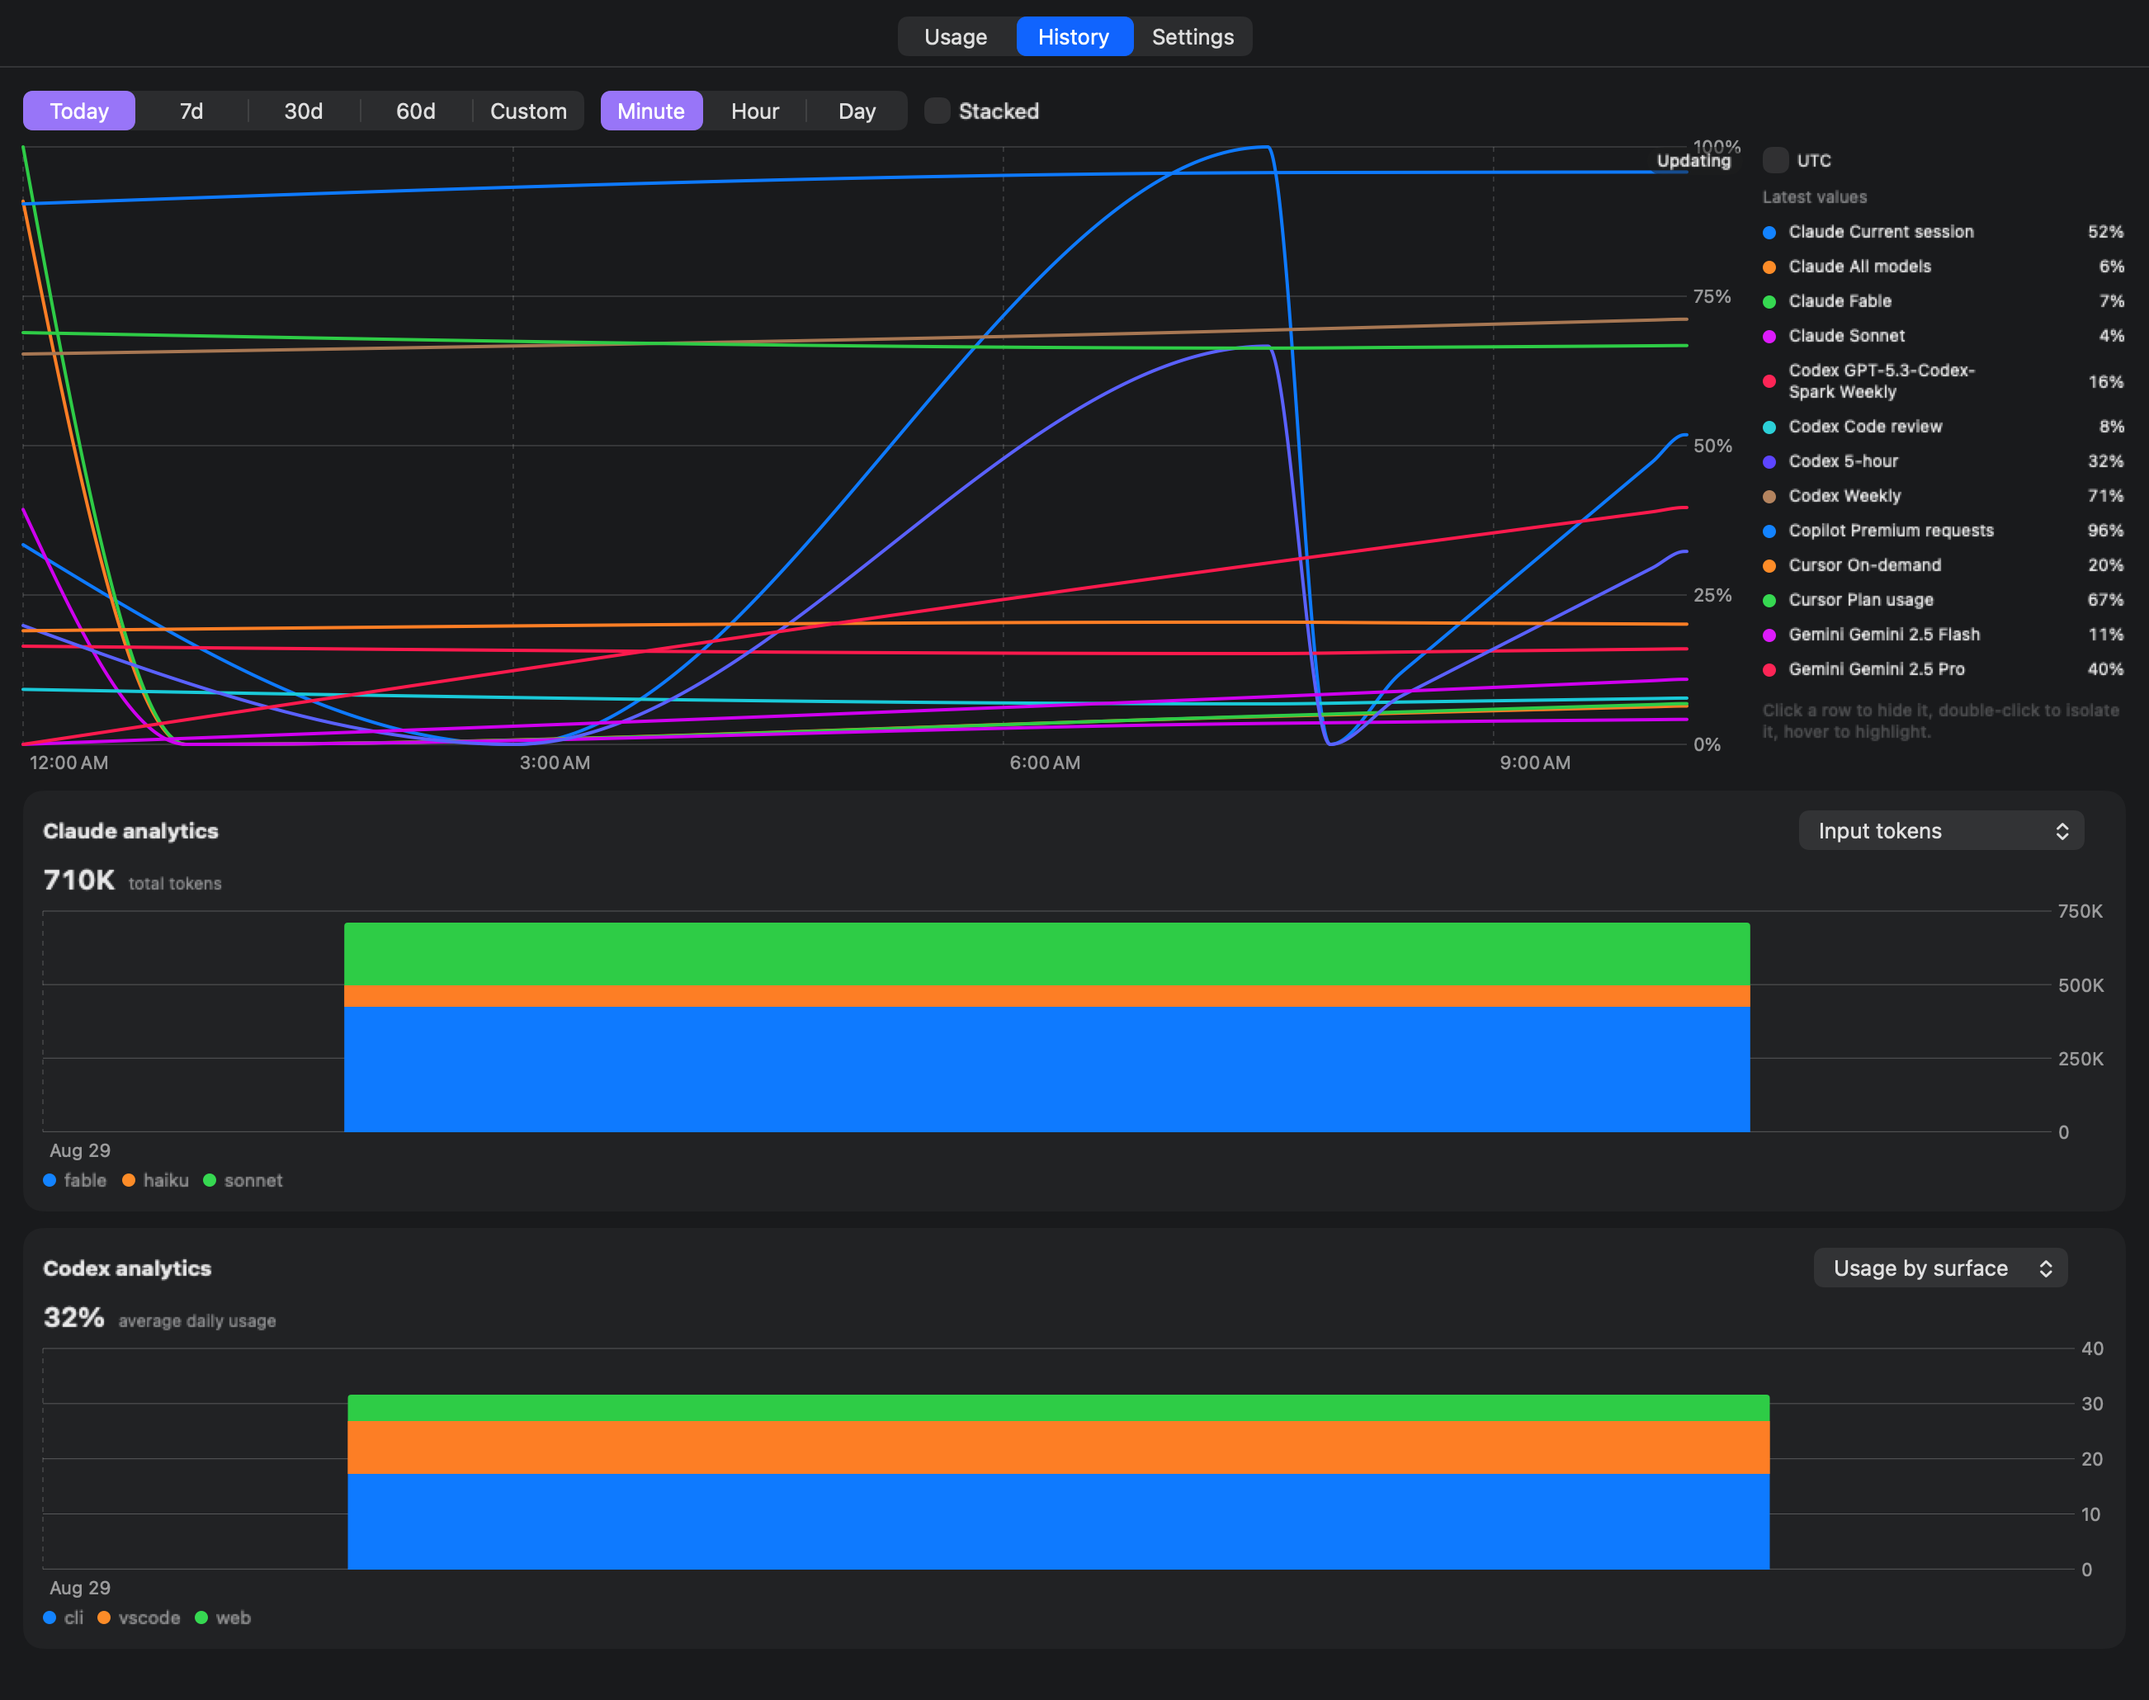
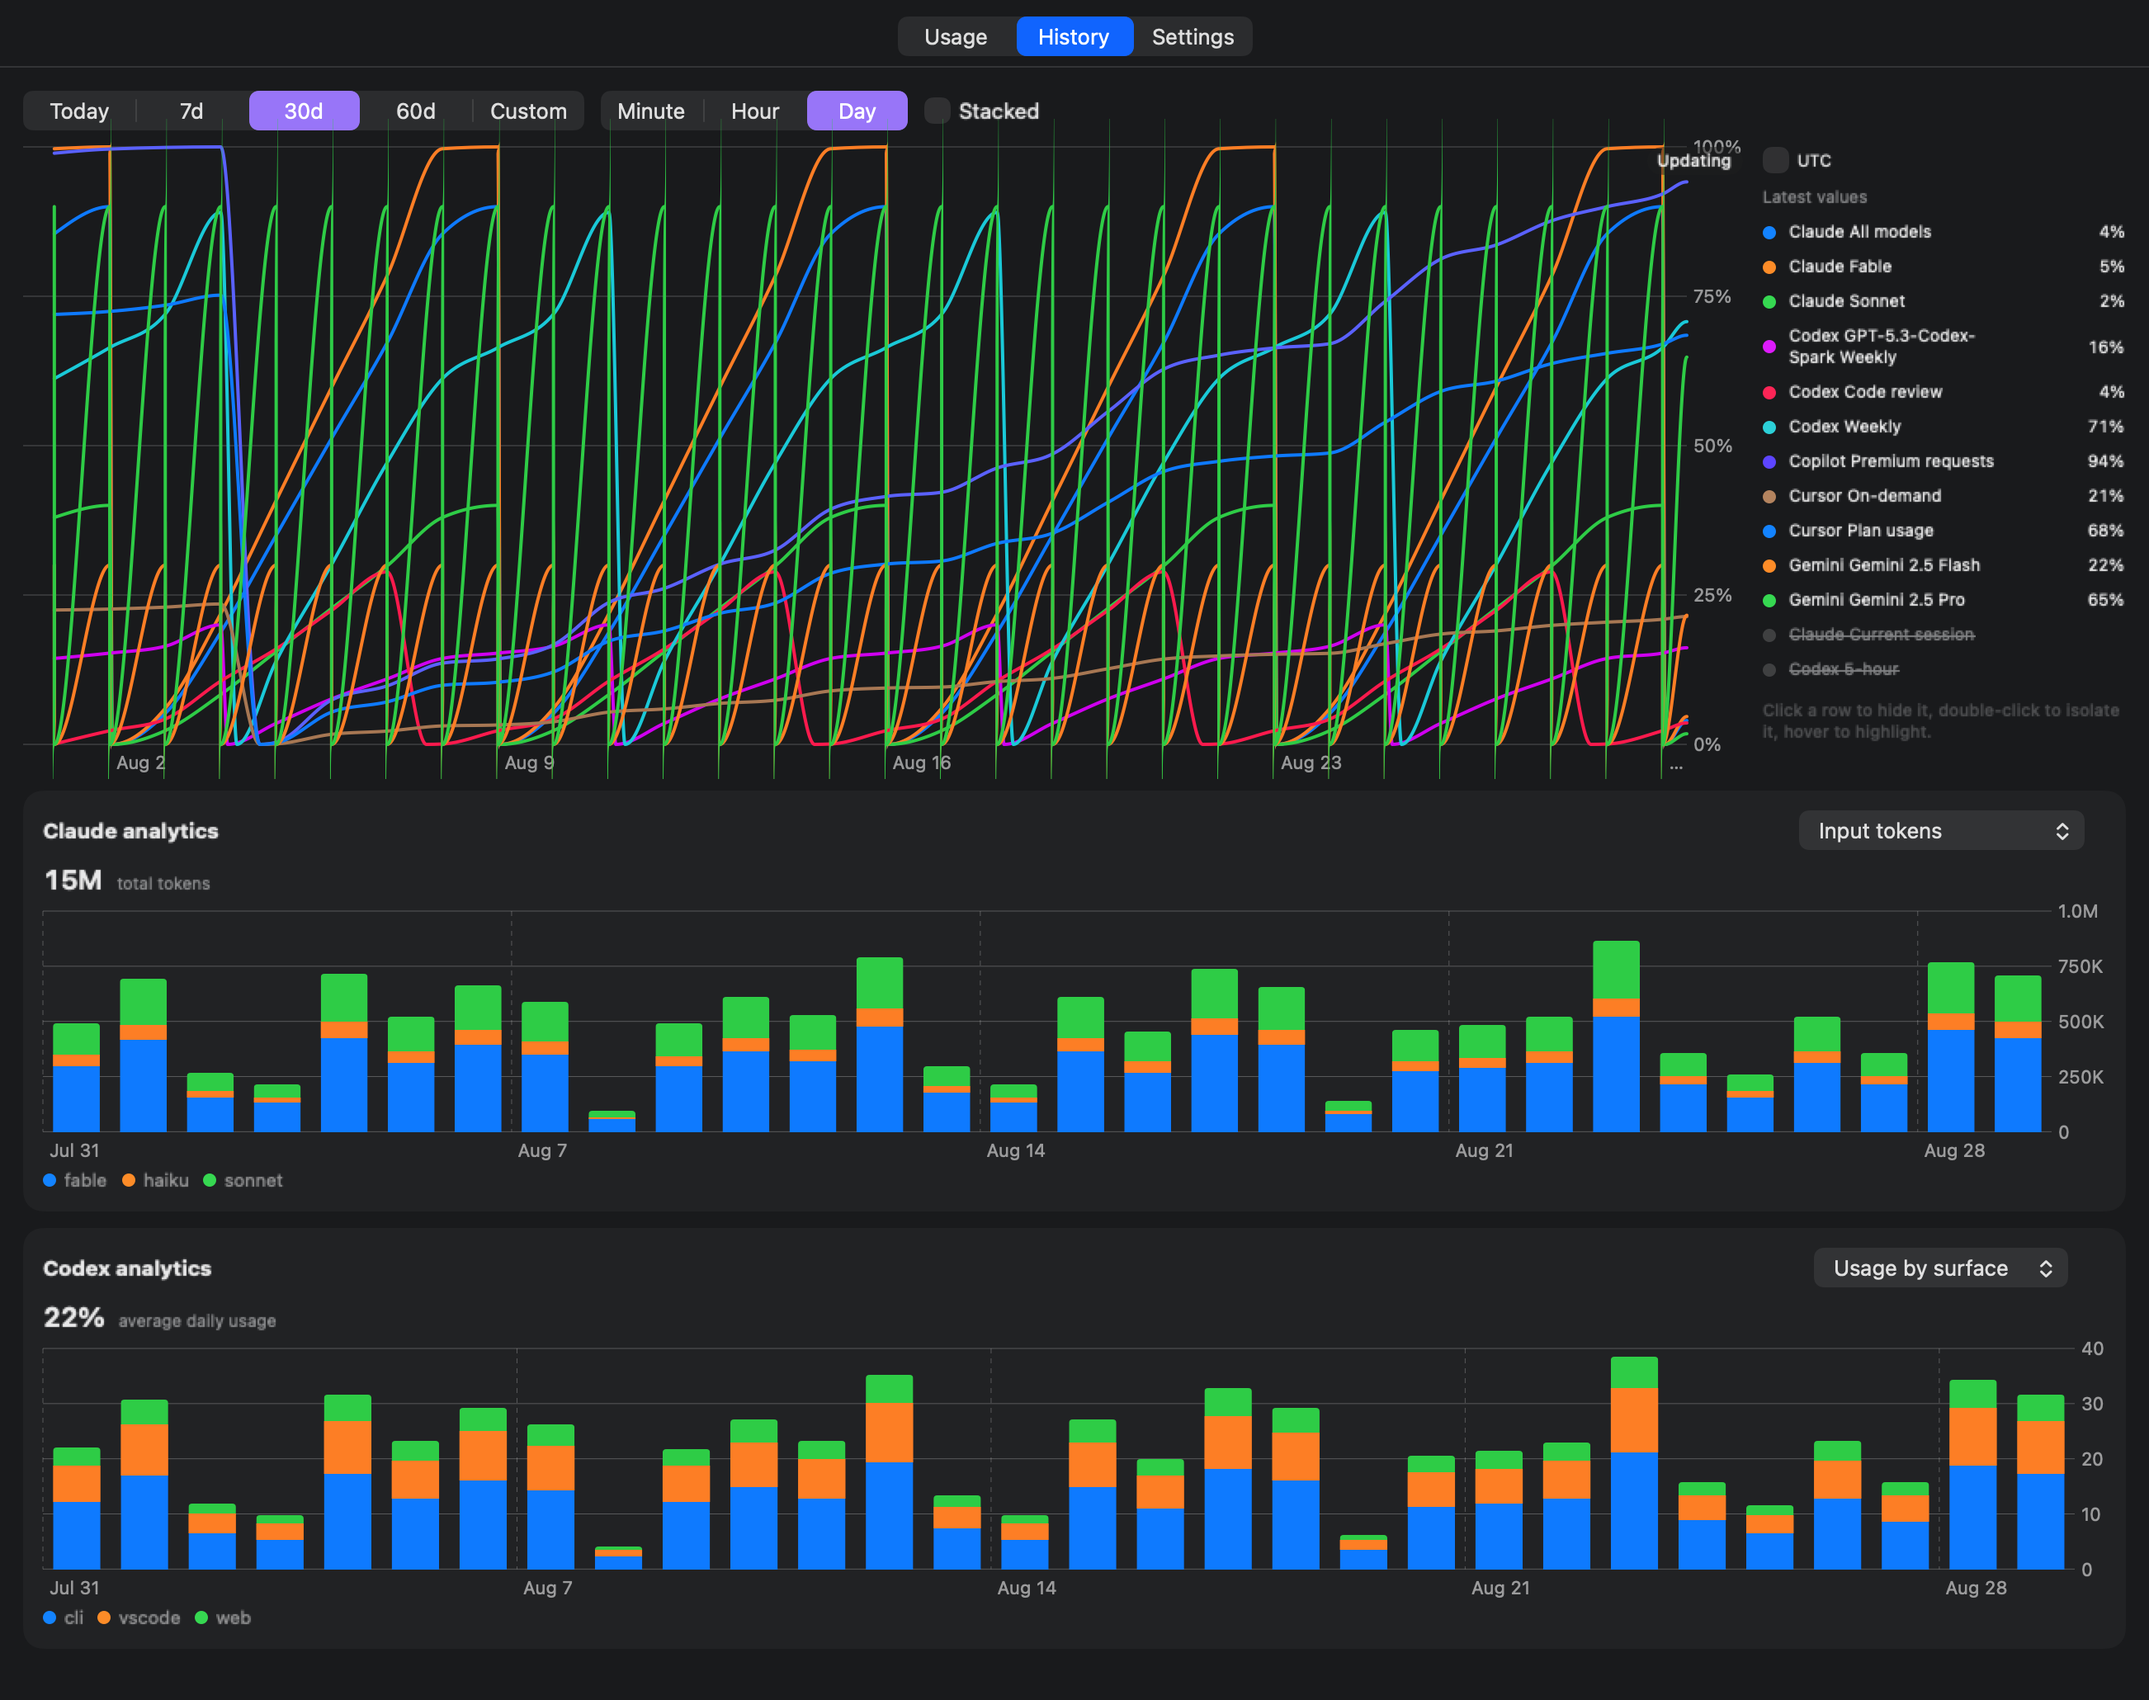
✨ feat(demo): give the demo history a working rhythm
The demo drew each window as a straight ramp, so every chart on the website
was a set of parallel diagonals with a sawtooth at each reset. Usage now
accumulates against an office-hours curve that flattens overnight and at
weekends, and the seeded history covers 30 days rather than 7.

The screenshot export waits for that seed, clears the support directory
first so a shot cannot come from an earlier run, hides the five-hour
windows that reset thirty times across the range, and opens the history on
30 days of daily buckets.

Claude-Session: https://claude.ai/code/session_01CGckDFXvufWVmRH4uyE4z8

diff --git a/Sources/TokenMenuBarCore/Demo/DemoData.swift b/Sources/TokenMenuBarCore/Demo/DemoData.swift
@@ -2,7 +2,8 @@ import Foundation
 
 public enum DemoData {
   public static let email = "you@example.com"
-  public static let historyDays = 7
+  public static let historyDays = 30
+  static let seedInterval: TimeInterval = 1800
 
   public static func snapshot(_ provider: ProviderID, now: Date) -> ProviderSnapshot {
     switch provider {
@@ -160,11 +161,46 @@ public enum DemoData {
     now: Date, scope: String? = nil
   ) -> QuotaWindow {
     let resetsAt = boundary(now: now, duration: duration, offset: offset)
-    let elapsed = 1 - resetsAt.timeIntervalSince(now) / duration
-    let wobble = 0.02 * sin(now.timeIntervalSince1970 / 36000 + Double(id.count))
+    let start = resetsAt.addingTimeInterval(-duration)
     return QuotaWindow(
-      id: id, label: label, group: group, usedPercent: min(100, max(0, (elapsed * pace + wobble) * 100)),
-      resetsAt: resetsAt, duration: duration, scope: scope)
+      id: id, label: label, group: group,
+      usedPercent: min(100, max(0, burned(from: start, to: now, of: duration) * pace * 100)), resetsAt: resetsAt,
+      duration: duration, scope: scope)
+  }
+
+  /// Quota burns while someone works, so the demo curve climbs through office hours and flattens overnight and at
+  /// weekends. A flat ramp reads as synthetic the moment it lands on a chart. Sampling a fixed number of steps keeps
+  /// this cheap enough to run for every point the seeded history holds.
+  static func burned(from start: Date, to now: Date, of duration: TimeInterval) -> Double {
+    let step = max(duration / 48, 900)
+    var spent = 0.0
+    var total = 0.0
+    for offset in stride(from: 0.0, to: duration, by: step) {
+      let moment = start.addingTimeInterval(offset)
+      let weight = intensity(at: moment)
+      total += weight
+      if moment <= now { spent += weight }
+    }
+    return total > 0 ? spent / total : 0
+  }
+
+  /// Hour and weekday from the epoch rather than Calendar: the seed asks for this hundreds of thousands of times.
+  static func intensity(at date: Date) -> Double {
+    let seconds = date.timeIntervalSince1970
+    let day = (seconds / 86400).rounded(.down)
+    let hour = (seconds - day * 86400) / 3600
+    let workday =
+      switch hour {
+      case 9..<12, 14..<18: 1.0
+      case 12..<14: 0.55
+      case 18..<22: 0.35
+      case 8..<9: 0.5
+      default: 0.05
+      }
+    // 1 January 1970 was a Thursday, so index 0 lands on Sunday
+    let weekday = Int(day.truncatingRemainder(dividingBy: 7) + 4).quotientAndRemainder(dividingBy: 7).remainder
+    let weekend = weekday == 0 || weekday == 6
+    return workday * (weekend ? 0.3 : 1)
   }
 
   static func boundary(now: Date, duration: TimeInterval, offset: TimeInterval) -> Date {
@@ -176,10 +212,10 @@ public enum DemoData {
     let start = now.addingTimeInterval(-Double(historyDays) * 86400)
     var snapshots: [(ProviderSnapshot, Date)] = []
     for provider in providers {
-      for stamp in stride(from: start, to: now, by: UsageHistoryStore.sampleInterval) {
+      for stamp in stride(from: start, to: now, by: seedInterval) {
         snapshots.append((snapshot(provider, now: stamp), stamp))
       }
-      if let analytics = analytics(provider, now: now, days: 30) { try await history.record(analytics) }
+      if let analytics = analytics(provider, now: now, days: historyDays) { try await history.record(analytics) }
     }
     try await history.seed(snapshots)
   }

diff --git a/Sources/TokenMenuBarUI/ExportRunner.swift b/Sources/TokenMenuBarUI/ExportRunner.swift
@@ -44,14 +44,27 @@ public enum ExportRunner {
     let suite = "dev.tox.token-menu-bar.export"
     let defaults = UserDefaults(suiteName: suite)!
     defaults.removePersistentDomain(forName: suite)
+    // A leftover history file would freeze the shots at whatever the demo generated on an earlier run
+    let support = FileManager.default.temporaryDirectory.appendingPathComponent("tmb-export")
+    try? FileManager.default.removeItem(at: support)
     let delegate = try AppRunner.bootstrap(
       isAppStore: false, notificationCenter: nil, updater: nil, isSandboxed: false,
-      paths: LiveDependencies.Paths(
-        supportDirectory: FileManager.default.temporaryDirectory.appendingPathComponent("tmb-export"),
-        environment: ["TOKEN_MENU_BAR_DEMO": "1"]),
+      paths: LiveDependencies.Paths(supportDirectory: support, environment: ["TOKEN_MENU_BAR_DEMO": "1"]),
       defaults: defaults)
     let controller = delegate.controller
+    // A month of daily buckets shows the weekly rhythm; the default "today" view has nothing to draw yet
+    controller.environment.settings.historyRange = .month
+    controller.environment.settings.historyRollup = .day
+    // Demo history seeds on a background task, and an empty chart makes for a poor screenshot
+    for _ in 0..<200 where (try? await controller.environment.history.stats().sampleCount) ?? 0 == 0 {
+      try? await Task.sleep(for: .milliseconds(100))
+    }
     await controller.coordinator.refresh(RefreshRequest(force: true, analytics: true))
+    // Five-hour windows reset around thirty times across a week, which reads as noise next to the weekly lines
+    controller.environment.settings.historyHiddenKeys = Set(
+      controller.environment.state.snapshots.flatMap { provider, snapshot in
+        snapshot.windows.filter { $0.group == .session }.map { WindowKey(provider, $0) }
+      })
     controller.environment.historyPresenter.reload()
     try? await Task.sleep(for: settle)
     await controller.environment.loadRecentSamples()

diff --git a/website/assets/css/site.css b/website/assets/css/site.css
@@ -347,9 +347,9 @@ td {
 .hero .wrap {
   position: relative;
   display: grid;
-  grid-template-columns: minmax(0, 1fr) minmax(0, 1.05fr);
-  gap: 3rem;
-  align-items: center;
+  gap: 2rem;
+  justify-items: start;
+  max-width: 780px;
 }
 
 .eyebrow {
@@ -396,7 +396,7 @@ td {
 .hero-media {
   display: grid;
   gap: 0.9rem;
-  justify-items: center;
+  width: 100%;
 }
 
 .shot {
@@ -409,17 +409,9 @@ td {
   height: auto;
 }
 
-/* The hero shows the top of the popover and fades the cut, so the page stays short and the crop reads as deliberate */
-.hero-popover {
-  max-height: 380px;
-  overflow: hidden;
-  border-radius: var(--radius-lg);
-  -webkit-mask-image: linear-gradient(to bottom, #000 76%, transparent 100%);
-  mask-image: linear-gradient(to bottom, #000 76%, transparent 100%);
-}
 
 .shot-bar {
-  max-width: 420px;
+  max-width: 520px;
   border-radius: var(--radius);
 }
 
@@ -542,22 +534,10 @@ td {
   display: none;
 }
 
-/* Each tab is as tall as its own content, so the shot scrolls inside a frame every tab shares */
-.tabshot-frame {
-  max-height: min(70vh, 620px);
-  overflow: auto;
-  border-radius: var(--radius-lg);
-  border: 1px solid var(--line);
-  box-shadow: var(--shadow-lg);
-  background: var(--surface);
-}
-
+/* One tab at a time, each shown whole: no crop, no inner scrollbar */
 .tabshot-frame img {
   display: block;
   margin-inline: auto;
-  border: 0;
-  border-radius: 0;
-  box-shadow: none;
 }
 
 .tabshot-panel figcaption {
@@ -709,11 +689,6 @@ h3:hover .anchor,
 }
 
 @media (max-width: 900px) {
-  .hero .wrap {
-    grid-template-columns: 1fr;
-    gap: 2rem;
-  }
-
   .hero {
     padding-top: 2.6rem;
   }

diff --git a/website/layouts/home.html b/website/layouts/home.html
@@ -26,16 +26,6 @@
                decoding="async">
         {{ end }}
       {{ end }}
-      <div class="hero-popover">
-        {{ range $variant := (slice "light" "dark") }}
-          {{ with resources.Get (printf "images/popover-usage-%s.png" $variant) }}
-            {{ $webp := .Resize (printf "%dx webp" .Width) }}
-            <img class="shot only-{{ $variant }}" src="{{ $webp.RelPermalink }}"
-                 width="{{ div $webp.Width 2 }}" height="{{ div $webp.Height 2 }}"
-                 alt="The Usage tab listing each plan window" decoding="async">
-          {{ end }}
-        {{ end }}
-      </div>
     </div>
   </div>
 </section>
